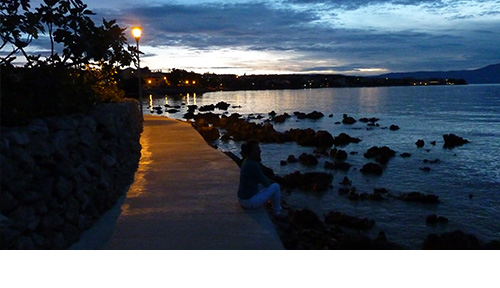
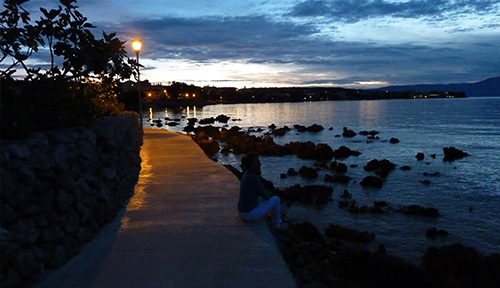
update cc, index, images, replace placeholder images, fix reisevorschau

diff --git a/index.html b/index.html
@@ -57,7 +57,7 @@
             <div class="overlay">
             </div>
             <div class="container">
-                <div class="description ">
+                <div class="description rectangle">
                     <h1>Olaf Heuer Bildungsreisen
                     <p>Wir möchten Sie zu unseren Reisen auf den Spuren von Kultur und Land einladen.
                     In vielfältigen und intensiven Programmen in gemütlichem Ambiente erleben wir Städte und deren Sehenswürdigkeiten, Gegenden und deren Flair, Sprachen und deren Sprecher.
@@ -76,7 +76,7 @@
                 <div class="row">
                     <!-- left side -->
                     <div class="col-lg-4 col-md-4 col-sm-12">
-                        <img src="/images/banner/__home.jpg" class="img-fluid">
+                        <img src="/images/banner/home.jpg" class="img-fluid">
                         <span>Auf den Spuren Sherlock Holmes'</span>
                         <div><p><br></p></div>
                     </div>
@@ -182,71 +182,77 @@
         </div>
 
 
-        <!-- Reisen -->
+        <!-- Reisevorschau -->
         <div class="reisen" id="reisen">
             <div class="container">
                 <h1>Unsere Reisen</h1>
-                <div class="row">
+                <div class="row" style="padding-left:1.2em;">
                     <div class="col-lg-3 col-md-4 col-sm-12 item" onClick="goTo('/reisen/london/')">
-                        <img src="/reisen/london/05BigBenWestminsterAbbey.jpg" class="img-fluid" alt="reisen">
-                        <div class="des">
-                            London
+                        <div class="pourtour">
+                            <img src="/reisen/london/london.jpg" class="img-fluid" alt="reisen">
+                            <div class="des">
+                                London
+                            </div>
+                            <span class="text-muted"><br>6-Tage-Reise &nbsp;&nbsp;&nbsp;<br>24.04.&ndash;29.04.2019</span>
                         </div>
-                        <span class="text-muted">6-Tage-Reise &nbsp;&nbsp;&nbsp;24.04.&ndash;29.04.2019
-                        </span>
                     </div>
                     <div class="col-lg-3 col-md-4 col-sm-12 item" onClick="goTo('/reisen/jersey/')">
-                        <img src="/reisen/jersey/jersey.jpg" class="img-fluid" alt="reisen">
-                        <div class="des">
-                            Jersey
+                        <div class="pourtour">
+                            <img src="/reisen/jersey/jersey.jpg" class="img-fluid" alt="reisen">
+                            <div class="des">
+                                Jersey
+                            </div>
+                            <span class="text-muted"><br>8-Tage-Reise &nbsp;&nbsp;&nbsp;<br>23.04.&ndash;30.04.2019</span>
                         </div>
-                        <span class="text-muted">8-Tage-Reise &nbsp;&nbsp;&nbsp;23.04.&ndash;30.04.2019
-                        </span>
                     </div>
                     <div class="col-lg-3 col-md-4 col-sm-12 item" onClick="goTo('/reisen/belgien/')">
-                        <img src="/reisen/belgien/08Belgien.jpg" class="img-fluid" alt="reisen">
-                        <div class="des">
-                            Belgien
+                        <div class="pourtour">
+                            <img src="/reisen/belgien/belgien.jpg" class="img-fluid" alt="reisen">
+                            <div class="des">
+                                Belgien
+                            </div>
+                            <span class="text-muted"><br>4-Tage-Reise &nbsp;&nbsp;&nbsp;<br>30.05.&ndash;02.06.2019</span>
                         </div>
-                        <span class="text-muted">4-Tage-Reise &nbsp;&nbsp;&nbsp;30.05.&ndash;02.06.2019
-                        </span>
                     </div>
                     <div class="col-lg-3 col-md-4 col-sm-12 item" onClick="goTo('/reisen/paris/')">
-                        <img src="/reisen/paris/paris.jpg" class="img-fluid" alt="reisen">
-                        <div class="des">
-                            Paris & Mickey Mouse
+                        <div class="pourtour">
+                            <img src="/reisen/paris/paris.jpg" class="img-fluid" alt="reisen">
+                            <div class="des">
+                                Paris & Mickey Mouse
+                            </div>
+                            <span class="text-muted"><br>5-Tage-Reise &nbsp;&nbsp;&nbsp;<br>11.07.&ndash;15.07.2019</span>
                         </div>
-                        <span class="text-muted">5-Tage-Reise &nbsp;&nbsp;&nbsp;11.07.&ndash;15.07.2019
-                        </span>
                     </div>
                     <div class="col-lg-3 col-md-4 col-sm-12 item" onClick="goTo('/reisen/norschweden/')">
-                        <img src="/reisen/norschweden/norschweden.jpg" class="img-fluid" alt="reisen">
-                        <div class="des">
-                            Norwegen & Schweden
+                        <div class="pourtour">
+                            <img src="/reisen/norschweden/norschweden.jpg" class="img-fluid" alt="reisen">
+                            <div class="des">
+                                Norwegen & Schweden
+                            </div>
+                            <span class="text-muted"><br>10-Tage-Reise &nbsp;&nbsp;&nbsp;<br>17.07.&ndash;26.07.2019</span>
                         </div>
-                        <span class="text-muted">10-Tage-Reise &nbsp;&nbsp;&nbsp;17.07.&ndash;26.07.2019
-                        </span>
                     </div>
                     <div class="col-lg-3 col-md-4 col-sm-12 item" onClick="goTo('/reisen/kroatien/')">
-                        <img src="/reisen/kroatien/kroatien.jpg" class="img-fluid" alt="reisen">
-                        <div class="des">
-                            Kroatien
+                        <div class="pourtour">
+                            <img src="/reisen/kroatien/kroatien.jpg" class="img-fluid" alt="reisen">
+                            <div class="des">
+                                Kroatien
+                            </div>
+                            <span class="text-muted"><br>8-Tage-Reise &nbsp;&nbsp;&nbsp;<br>03.10.&ndash;10.10.2019</span>
                         </div>
-                        <span class="text-muted">8-Tage-Reise &nbsp;&nbsp;&nbsp;03.10.&ndash;10.10.2019
-                        </span>
                     </div>
                     <div class="col-lg-3 col-md-4 col-sm-12 item" onClick="goTo('/reisen/tanzen/')">
-                        <img src="/reisen/tanzen/tanzen.jpg" class="img-fluid" alt="reisen">
-                        <div class="des">
-                            Tanzwochenende
+                        <div class="pourtour">
+                            <img src="/reisen/tanzen/tanzen.jpg" class="img-fluid" alt="reisen">
+                            <div class="des">
+                                Tanzwochenende
+                            </div>
+                            <span class="text-muted"><br>3-Tage-Tanzen &nbsp;&nbsp;&nbsp;<br>22.&ndash;24.3., 5.&ndash;7.4. & 20.&ndash;22.9.</span>
                         </div>
-                        <span class="text-muted">3-Tage-Tanzen &nbsp;&nbsp;&nbsp;22.&ndash;24.03., 05.&ndash;07.04. & 20.&ndash;22.09.
-                        </span>
                     </div>
                 </div>
             </div>
         </div>
-
 
         <!-- Angebote 2019 & Reiseideen für zukünftige Ziele  -->
         <div class="row philo" id="philosophie">
@@ -255,7 +261,7 @@
                 <div class="row">
                     <!-- left side -->
                     <div class="col-lg-4 col-md-4 col-sm-12">
-                        <img src="/images/banner/philosophie.jpg" class="img-fluid">
+                        <img src="/images/banner/reisen.jpg" class="img-fluid">
                         <span>Auf Wasserstraßen zum Mythos um Murano</span>
                         <div><p><br></p></div>
                     </div>
@@ -362,6 +368,7 @@
 -->
 
 
+<!--
         <div class="contact-form" id="kontakt">
             <div class="container">
                 <form>
@@ -388,7 +395,7 @@
                 </form>
             </div>
         </div>
-        
+-->
 <!-- this one gets your email address directly
 <form action="https://formspree.io/your@email.com"
       method="POST">
@@ -397,6 +404,36 @@
     <input type="submit" value="Send">
 </form>
 -->
+
+
+        <div class="contact-form" id="kontakt">
+            <div class="container">
+                <form>
+                    <div class="row">
+                        <div class="col-lg-4 col-md-4 col-sm-12">
+                            <h1>Kontaktieren Sie uns</h1>
+                            <img src="/images/banner/kontakt.jpg" class="img-fluid">
+                        </div>
+                        <div class="col-lg-8 col-md-8 col-sm-12 right">
+                            <form action="https://formspree.io/oh.bildungsreisen@gmail.com" method="POST">
+                            <div class="form-group">
+                                <input type="text" class="form-control form-control-lg" placeholder="Ihr Name" name="name">
+                            </div>
+                            <div class="form-group">
+                                <input type="email" class="form-control form-control-lg" placeholder="IhreEmail@email.com" name="_replyto">
+                            </div>
+                            <div class="form-group">
+                                <textarea class="form-control form-control-lg">
+                                </textarea>
+                            </div>
+                            <input type="submit" class="btn btn-secondary btn-block" value="Senden" name="">
+                            </form>
+                        </div>
+                    </div>
+                </form>
+            </div>
+        </div>
+
 
 <!-- Contact form -->
 <!-- keep working form on katjaq -->
@@ -537,7 +574,7 @@ var scr = d.getElementsByTagName(t)[0], par = scr.parentNode; par.insertBefore(s
                 <div class="row">
                     <!-- left side -->
                     <div class="col-lg-4 col-md-4 col-sm-12">
-                        <img src="/images/banner/philosophie.jpg" class="img-fluid">
+                        <img src="/images/banner/impressum.jpg" class="img-fluid">
                         <span>Im Türkis des Himmels und des Meeres</span>
                         <div><p><br></p></div>
                     </div>
@@ -678,7 +715,7 @@ var scr = d.getElementsByTagName(t)[0], par = scr.parentNode; par.insertBefore(s
                 <div class="row">
                     <!-- left side -->
                     <div class="col-lg-4 col-md-4 col-sm-12">
-                        <img src="/images/banner/__home.jpg" class="img-fluid">
+                        <img src="/images/banner/agb.jpg" class="img-fluid">
                         <span>Durch königliche Räume zum Puppenhaus der Queen</span>
                         <div><p><br></p></div>
                     </div>

diff --git a/css/main.css b/css/main.css
@@ -47,18 +47,28 @@ body{
 /* header with image and description text */
 .header{
     position: relative;
-    background-image: url('../images/banner/__home.jpg');
+    background-image: url('../images/banner/headerbg.jpg');
     background-attachment: fixed;
     background-size: cover;
     background-position: center;
 }
+/*
 .overlay{
     position: absolute;
     min-height: 100%;
     min-width: 100%;
     left: 0;
     top: 0;
-    background: rgba(244, 244, 244, 0.79);
+    background: rgba(244, 244, 244, 0.0);
+}
+*/
+.rectangle{
+    position: absolute;
+    min-height: 30%;
+    min-width: 100%;
+    left: 0;
+    top: 0;
+    background: rgba(0, 0, 0, 0.5);
 }
 .description{
     position: absolute;
@@ -67,27 +77,37 @@ body{
     padding: 2em;
 }
 .description h1{
-    color:#560020ff;
+/*    color:#560020ff;*/
+    color:#fff;
+    font-weight:semi-bold;
     font-family: 'Montserrat', sans-serif;
 }
 .description p{
-    color:#000;
+    color:#fff;
     font-size: 16px;
+    font-weight:normal;
     width: 100%;
     max-width:640px;
     line-height: 1.5;
     padding: 2em 0 1em 0;
 }
 .description button{
-    background:#560020ff;
-    color:#fff;
+    background:#fff;
+    color:#560020ff;
+/*    background:#560020ff;*/
+/*    color:#fff;*/
+    border:none;
+}
+.btn btn-outline-secondary{
+    background:#fff;
+    color:#560020ff;
+/*    background:#560020ff;*/
+/*    color:#fff;*/
+/*    border:1px solid #560020ff;*/
+    border:none;
+
 }
 
-.btn btn-outline-secondary{
-/*    border:1px solid #560020ff;*/
-    background:#560020ff;
-    color:#fff;
-}
 
 /* Home page and Philosophie */
 .philo{
@@ -152,7 +172,7 @@ body{
 }
 
 
-/* reisen */
+/* reisevorschau – images as overview over available trips */
 .reisen{
     margin: 4em 0;
     position: relative;
@@ -161,43 +181,53 @@ body{
 .reisen h1{
     color:#560020ff;
     /*margin: 2em;*/
-    padding: 2em 0 2.1em 0;
+/*    padding: 2em 0 2.1em 0;*/
+    padding: 2em 0 0 0.1em;
 }
 .reisen .item{
     position: relative;
     overflow: hidden;
+    padding:0em;
+    padding-top:2em;
+    /*margin-right:0.3em;*/
 }
 /* change cursor to pointer over image */
 .item{
     cursor: pointer;
+    padding-top:2em;
+    /*margin-right:0.3em;*/
+}
+
+.pourtour {
+    padding: 0.3em; /* := x */
+    position:relative;
 }
 
 /* Reisetitel unter dem Reisebild */
+/* x=0.3 */
 .reisen .des{
     background: #560020ff;
     color: #fff;
     text-align: left;
-    padding-left:0.1em;
-    border-bottom-left-radius: 0%;
     transition:.3s ease-in-out;
     position: absolute;
-    width: 87.5%;
+    width: calc( 100% - 0.6em ); /* 2x */
+    max-width:500px;
     bottom: 24px;
+    transform: translate( 0,-0.3em); /* x */
 }
 /* bordeaux overlay über dem Reisebild */
 .reisen .item:hover .des{
-    height: 100%;
-/*  background:#6710364D;*/
+    height: calc( 100% - 0.6em ); /* 2x */
     background:#5600204D;
     position: absolute;
-    width: 90%;
-    padding: 3.8em;
-    top: 0;
+    width:calc( 100% - 0.6em ); /* 2x */
+    top: 0.6em; /* 2x */
     border-bottom-left-radius: 0;
 }
 
 
-/* reisedetails */
+/* einzelreisen reisedetails */
 .reisedetails{
     margin: 4em 0;
     padding: 1em;
@@ -292,5 +322,9 @@ img.zoom {
 .contact-form .right .form-control::placeholder{
     color: #888;
     font-size: 16px;
+}
+#kontakt img{
+    /*height: 100%;*/
+    width: 100%;
 }
 
